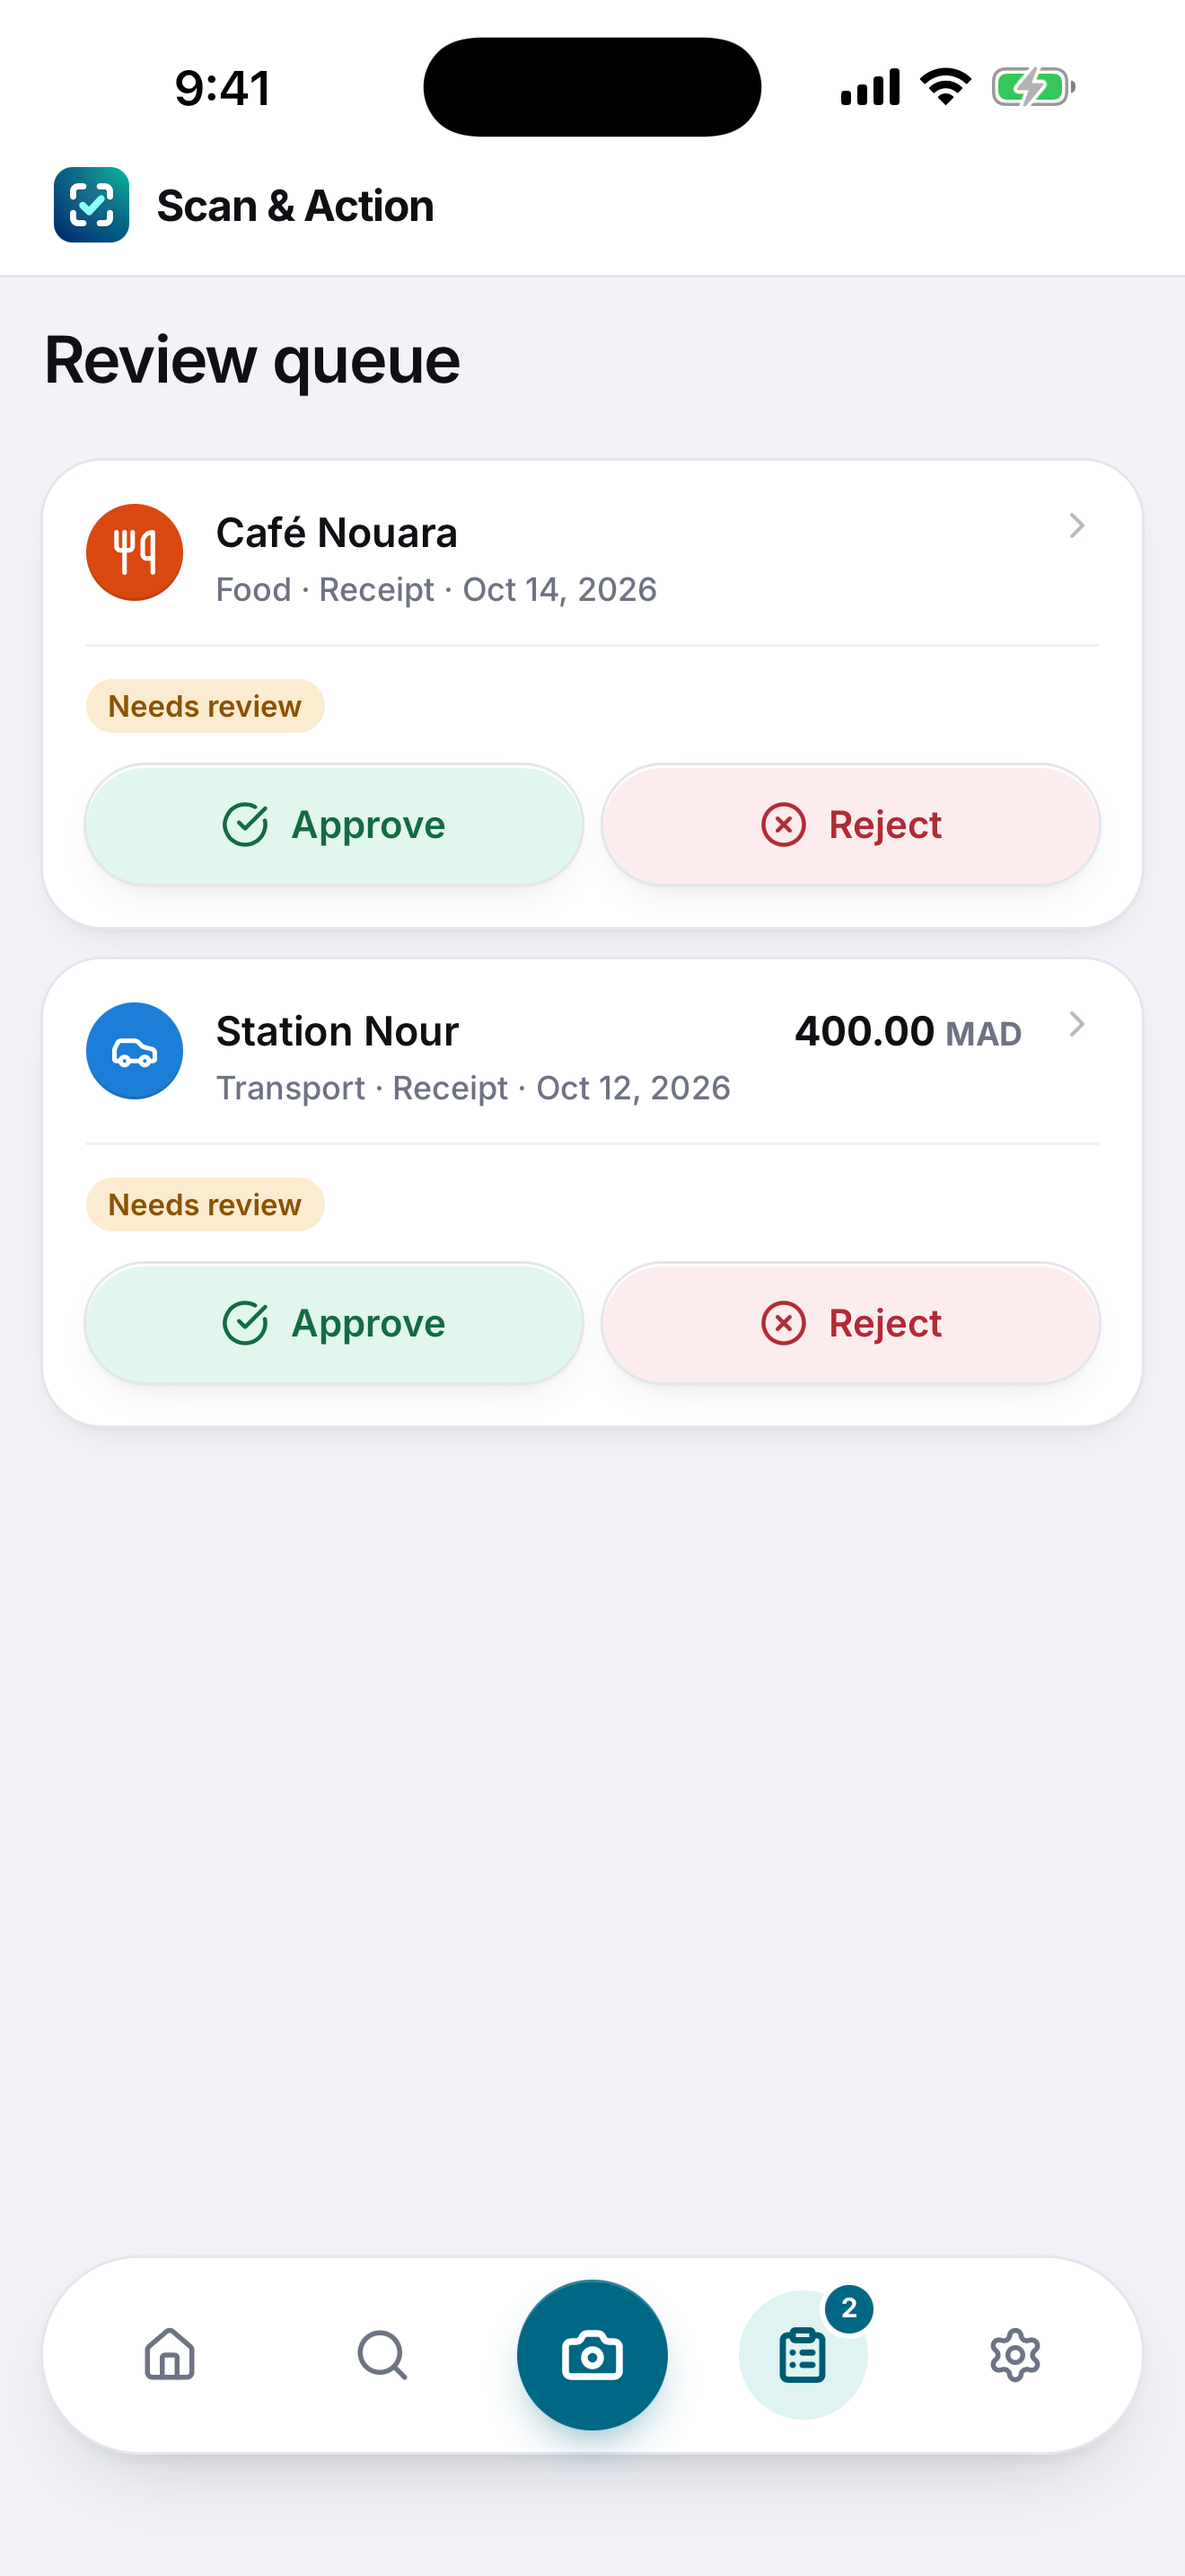
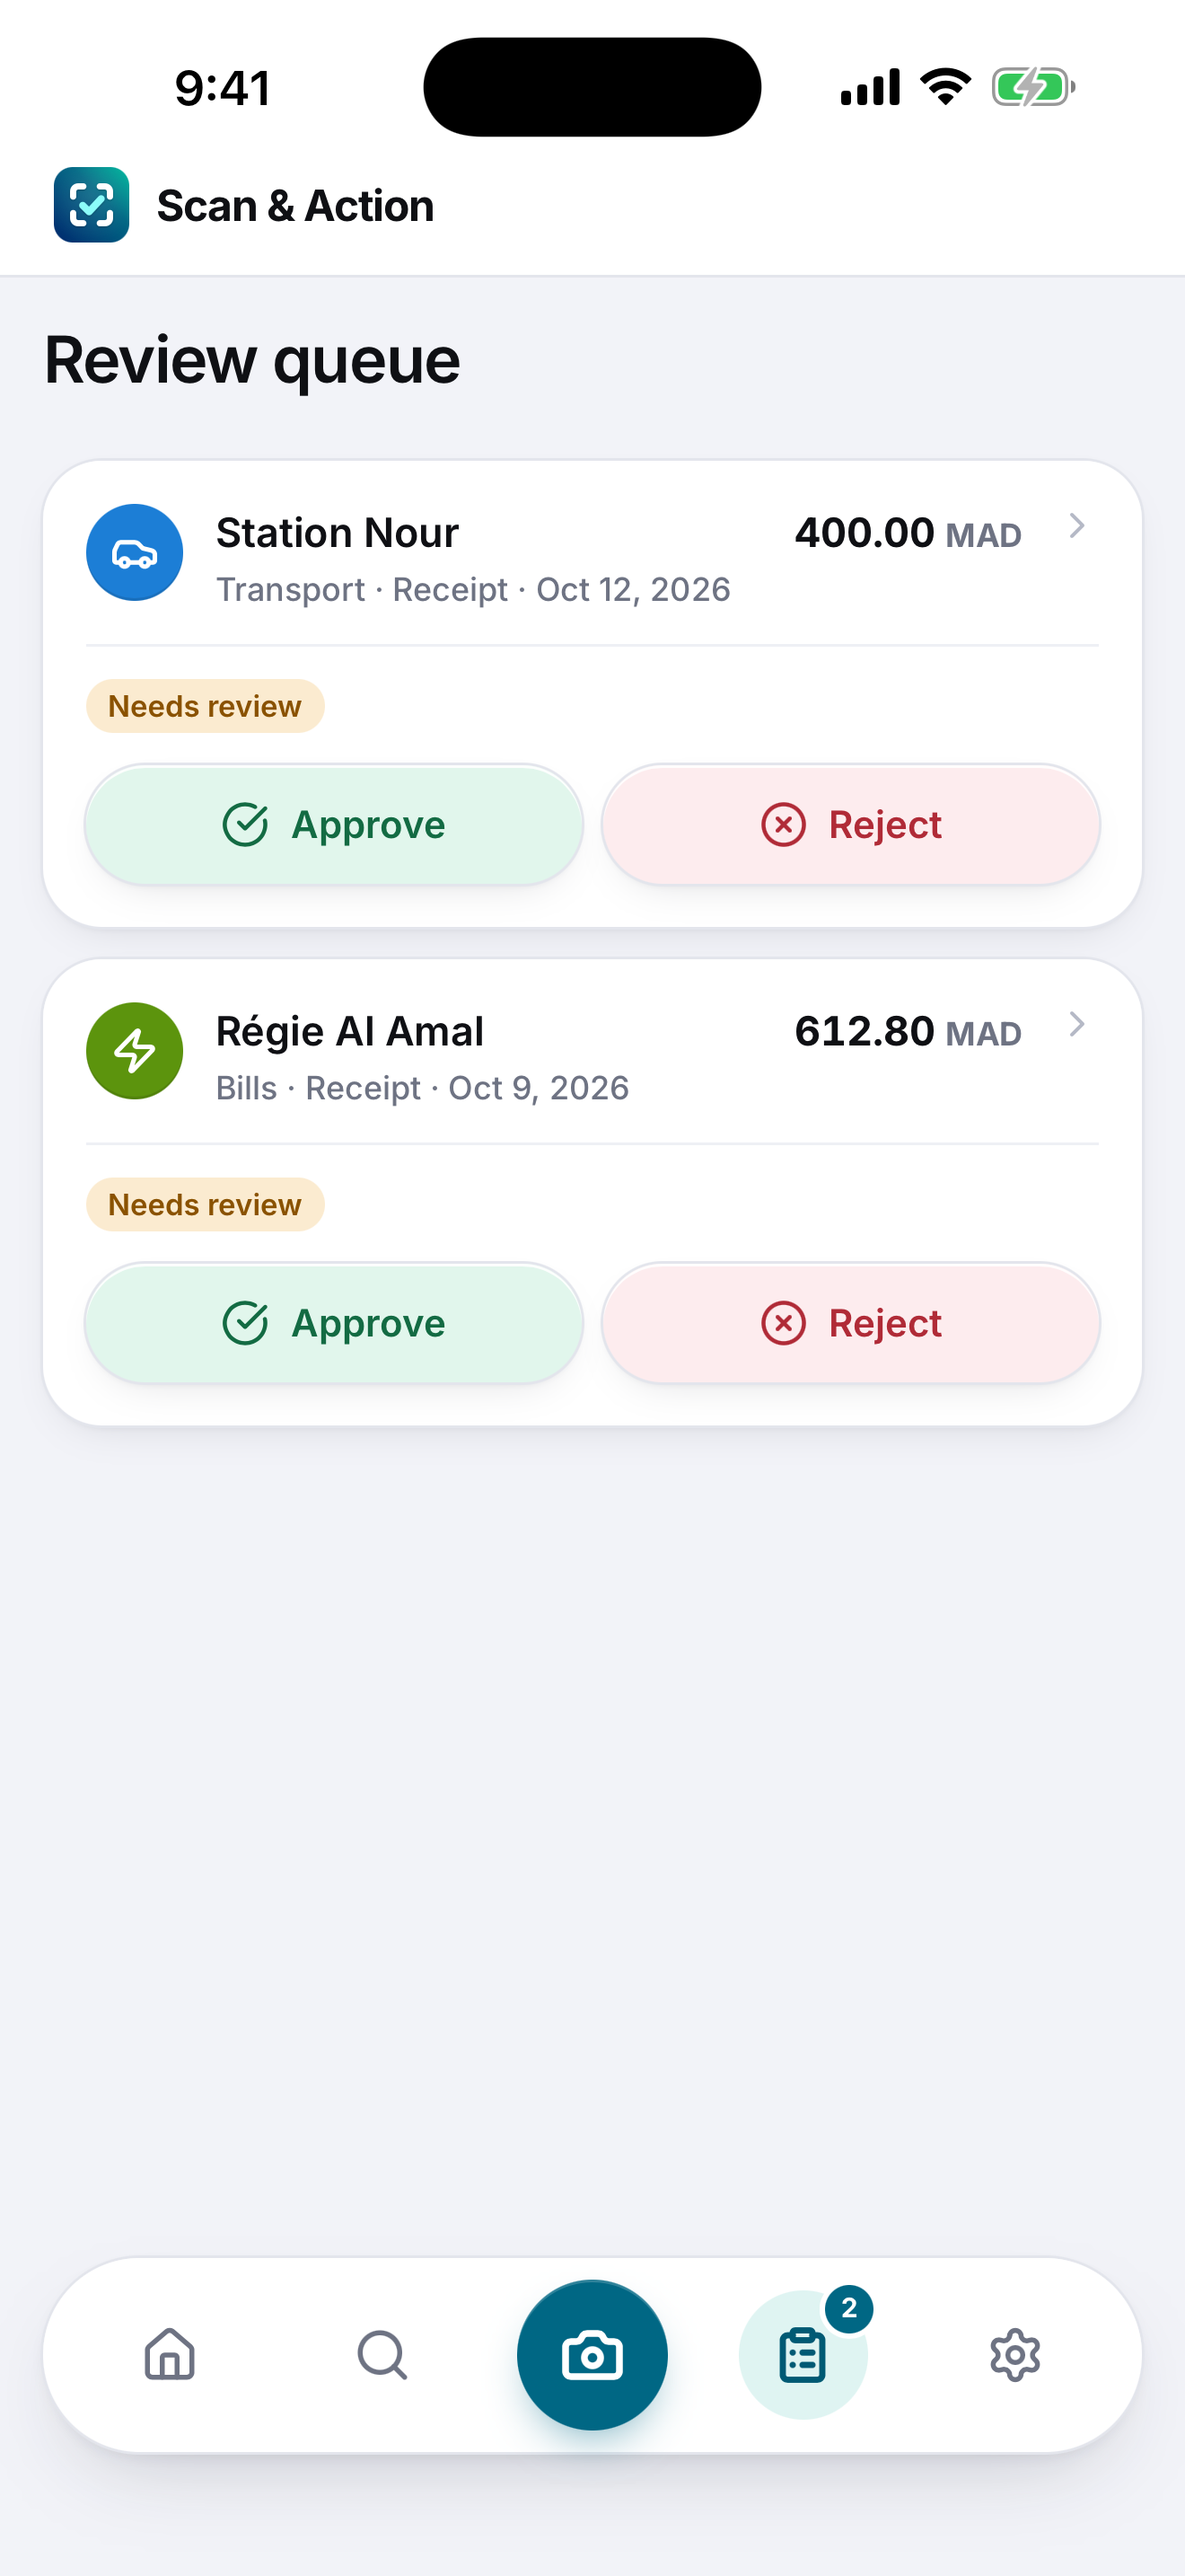
store: frame 4 with both amounts, frames 1, 2 and 5 reshot with it, frame 2 kept
The queue's receipt with no amount (Café Nouara) is replaced by Régie Al
Amal, 612.80 MAD, held for the reason Rule A gives (over 500). Station Nour
keeps 400.00 MAD and "Total not printed". Home and Search read the same
month, so they were reshot too. Run 38763571358 on proof/store-shots-2,
app code at main 4dd2bdcd. Frame 3 unchanged.

diff --git a/store/app-store/1.0/source/sa-proof.js b/store/app-store/1.0/source/sa-proof.js
@@ -31,7 +31,7 @@
     R('d1', '2026-10-13', 342.5, 'Food', 'Épicerie Al Waha'),
     R('d2', '2026-10-12', 400, 'Transport', 'Station Nour', 'NEEDS_REVIEW'),
     R('d3', '2026-10-11', 129.4, 'Health', 'Pharmacie Al Majd'),
-    R('d4', '2026-10-09', 612.8, 'Bills', 'Régie Al Amal'),
+    R('d4', '2026-10-09', 612.8, 'Bills', 'Régie Al Amal', 'NEEDS_REVIEW'),
     R('d5', '2026-10-08', 215, 'Shopping', 'Librairie Kalam'),
     R('d6', '2026-10-06', 48, 'Food', 'Café Nouara'),
     R('d7', '2026-10-04', 26.5, 'Food', 'Boulangerie Yasmine')];
@@ -54,12 +54,19 @@
     entities: [{ role: 'VENDOR', displayName: 'Station Nour' }], documentEntities: [{ role: 'VENDOR', entity: { displayName: 'Station Nour' } }],
     facts: [{ key: 'TOTAL_AMOUNT', factType: 'AMOUNT', valueNumber: 400, currency: 'MAD', confidence: 0.6 }, { key: 'TRANSACTION_DATE', factType: 'DATE', valueDate: '2026-10-12T00:00:00.000Z', confidence: 0.98 },
       { key: 'category', valueString: 'Transport' }, { key: 'decision', valueString: 'NEEDS_REVIEW' }, { key: 'decision_reason', valueString: 'Total not printed' }] };
-  var noAmount = { id: 'd11', originalFileName: 'IMG_2231.jpg', documentType: 'RECEIPT', overallConfidence: 0.7, uploadedAt: '2026-10-14T12:40:00Z',
+  // The queue's two receipts, each held for a reason the rule engine really
+  // gives (ruleEngineService): Rule A, an amount over 500, and Rule E, a page
+  // with no total line, so the items were added up. Both show their amount.
+  var bill = { id: 'd4', originalFileName: 'scan-20261009-191520.jpg', documentType: 'RECEIPT', overallConfidence: 0.95, uploadedAt: '2026-10-09T19:15:20Z',
     status: 'NEEDS_REVIEW', signedFileUrl: '/sa-receipt.jpg', reextractable: false, reprocessed: null,
-    entities: [{ role: 'VENDOR', displayName: 'Café Nouara' }], documentEntities: [{ role: 'VENDOR', entity: { displayName: 'Café Nouara' } }],
-    facts: [{ key: 'TRANSACTION_DATE', factType: 'DATE', valueDate: '2026-10-14T00:00:00.000Z', confidence: 0.95 }, { key: 'category', valueString: 'Food' },
-      { key: 'decision', valueString: 'NEEDS_REVIEW' }, { key: 'decision_reason', valueString: 'Missing amount' }] };
-  var queue = [noAmount, fuel];
+    entities: [{ role: 'VENDOR', displayName: 'Régie Al Amal' }], documentEntities: [{ role: 'VENDOR', entity: { displayName: 'Régie Al Amal' } }],
+    facts: [{ key: 'TOTAL_AMOUNT', factType: 'AMOUNT', valueNumber: 612.8, currency: 'MAD', confidence: 0.96 }, { key: 'TRANSACTION_DATE', factType: 'DATE', valueDate: '2026-10-09T00:00:00.000Z', confidence: 0.98 },
+      { key: 'category', valueString: 'Bills' }, { key: 'decision', valueString: 'NEEDS_REVIEW' }, { key: 'decision_reason', valueString: 'Amount exceeds threshold' }] };
+  // A receipt the app is still reading: the screen a scan lands on
+  // (CaptureSheet navigates to Detail), before anything has been read.
+  var reading = { id: 'r1', originalFileName: 'scan-20261015-094102.jpg', documentType: 'UNKNOWN', overallConfidence: null, uploadedAt: '2026-10-15T09:41:02Z',
+    status: 'PROCESSING', signedFileUrl: '/sa-receipt.jpg', reextractable: false, reprocessed: null, entities: [], documentEntities: [], facts: [] };
+  var queue = [fuel, bill];
   var stats = { pendingCount: 2, statusBreakdown: { COMPLETED: 9, NEEDS_REVIEW: 2, REJECTED: 0 } };
   var hits = mad.map(function (r) { return Object.assign({ currency: 'MAD' }, r); }).concat(eur.map(function (r) { return Object.assign({ currency: 'EUR' }, r); }), usd.map(function (r) { return Object.assign({ currency: 'USD' }, r); }));
   var search = { mode: 'recent', q: '', category: null, month: null, timeZone: 'Africa/Casablanca', receipts: hits, currencies: [], notCounted: [] };
@@ -67,10 +74,10 @@
     currencies: [{ currency: 'MAD', total: sum(mad), receiptCount: mad.length }, { currency: 'EUR', total: sum(eur), receiptCount: eur.length }, { currency: 'USD', total: sum(usd), receiptCount: usd.length }],
     notCounted: [{ documentId: 'd12', date: '2026-10-02', merchant: 'Brasserie du Port', fileName: 'scan-20261002-213010.jpg', status: 'COMPLETED', reason: 'duplicate', category: 'Food' }] };
   var activity = [
-    { id: 'd11', originalFileName: 'IMG_2231.jpg', uploadedAt: '2026-10-14T12:40:00Z', status: 'NEEDS_REVIEW', facts: [{ key: 'category', valueString: 'Food' }] },
     { id: 'd1', originalFileName: 'scan-20261013-181204.jpg', uploadedAt: '2026-10-13T18:12:04Z', status: 'COMPLETED', facts: [{ key: 'category', valueString: 'Food' }] },
     { id: 'd2', originalFileName: 'scan-20261012-090131.jpg', uploadedAt: '2026-10-12T09:01:31Z', status: 'NEEDS_REVIEW', facts: [{ key: 'category', valueString: 'Transport' }] },
-    { id: 'd3', originalFileName: 'scan-20261011-174455.jpg', uploadedAt: '2026-10-11T17:44:55Z', status: 'COMPLETED', facts: [{ key: 'category', valueString: 'Health' }] }];
+    { id: 'd3', originalFileName: 'scan-20261011-174455.jpg', uploadedAt: '2026-10-11T17:44:55Z', status: 'COMPLETED', facts: [{ key: 'category', valueString: 'Health' }] },
+    { id: 'd4', originalFileName: 'scan-20261009-191520.jpg', uploadedAt: '2026-10-09T19:15:20Z', status: 'NEEDS_REVIEW', facts: [{ key: 'category', valueString: 'Bills' }] }];
 
   function body(path, q) {
     if (path.indexOf('/ledger') >= 0) return ledger;
@@ -81,7 +88,7 @@
     var job = path.match(/\/documents\/(p\d)$/);
     if (job) return Object.assign({}, detail, { id: job[1], status: JOBS[job[1]][1] });
     var doc = path.match(/\/documents\/([^/]+)$/);
-    if (doc) return { d1: detail, d2: fuel, d11: noAmount }[doc[1]] || detail;
+    if (doc) return { d1: detail, d2: fuel, d4: bill, r1: reading }[doc[1]] || detail;
     if (/\/auth\/v1\/signup$/.test(path)) return { id: 'u-2', aud: 'authenticated', role: '', email: 'new.person@example.com', confirmation_sent_at: new Date().toISOString(), app_metadata: { provider: 'email', providers: ['email'] }, user_metadata: {}, identities: [{ id: 'i-2', user_id: 'u-2', provider: 'email' }], created_at: new Date().toISOString() };
     if (/\/version$/.test(path)) return { commit: 'proof' };
     if (/\/(me|usage|billing|subscription|account)/.test(path)) return { plan: 'PRO', usage: { scansThisMonth: 6, limit: 1000 } };

diff --git a/store/app-store/1.0/README.md b/store/app-store/1.0/README.md
@@ -26,6 +26,11 @@ What applies, read on 2026-10-15:
 2. `02-capture`: adding a document (the system scanner or a file).
 3. `03-detail`: one receipt, its photo, and what was read from it.
 4. `04-queue`: the receipts that need a person, with Approve and Reject.
+   Both show their amount: Station Nour 400.00 MAD and Régie Al Amal 612.80
+   MAD. The queue card shows no review reason (the card renders the status
+   only, `ReviewQueueScreen.tsx`); the reason shows on the receipt's Detail.
+   The fixtures still carry each reason the rule engine would give: "Total
+   not printed" (Rule E) and "Amount exceeds threshold" (Rule A, over 500).
 5. `05-search`: a month's receipts, with each currency's total.
 
 ## How they were made
@@ -38,9 +43,23 @@ invented, no real user's data and no review account's data, and no real brand
 name (App Store Review Guideline 5.2). The receipt photo is drawn by
 `source/receipt.mjs` and its lines add up to the total Detail shows.
 
-Run 38664852917 on the throwaway branch `proof/store-shots` shot them, with
-`source/store-shots.yml` as its workflow; the files here are those frames
-converted to RGB (pixels unchanged, alpha channel removed). Every frame passed
+Run 38664852917 on the throwaway branch `proof/store-shots` shot the first
+set. Frames 1, 2, 4 and 5 were reshot on 2026-10-15 by run 38763571358 on
+`proof/store-shots-2` (app code at `main` `4dd2bdcd`, whose `apps/` tree is
+`0fedd179`'s), after the queue's receipt with no amount was replaced: frame 4
+changed, and frames 1, 2 and 5 changed with it because Home and Search read
+the same month (Home now says 2 receipts need review, Search marks Régie Al
+Amal "Needs review"). Frame 3 is the first run's file: the second run gave it
+byte-identical on the large set and a shadow-only difference on the medium.
+The files here are the frames converted to RGB (pixels unchanged, the alpha
+channel, opaque everywhere, removed), with `source/store-shots.yml` as the
+workflow.
+
+`02-reading` in `source/screens.mjs` is a candidate that was shot and not
+chosen: Detail while a scan is read. It is a loading state (a skeleton for the
+amount, a grey "Processing" chip, the lower third empty) and it shows neither
+way of adding a document, so frame 2 stays the Add a document sheet. The
+system scanner itself cannot be shot: the simulator has no camera. Every frame passed
 the in-page layout audit (no text cut, nothing overlapping, no sideways
 scroll) and the contrast audit (no text pair under 4.5:1).
 
